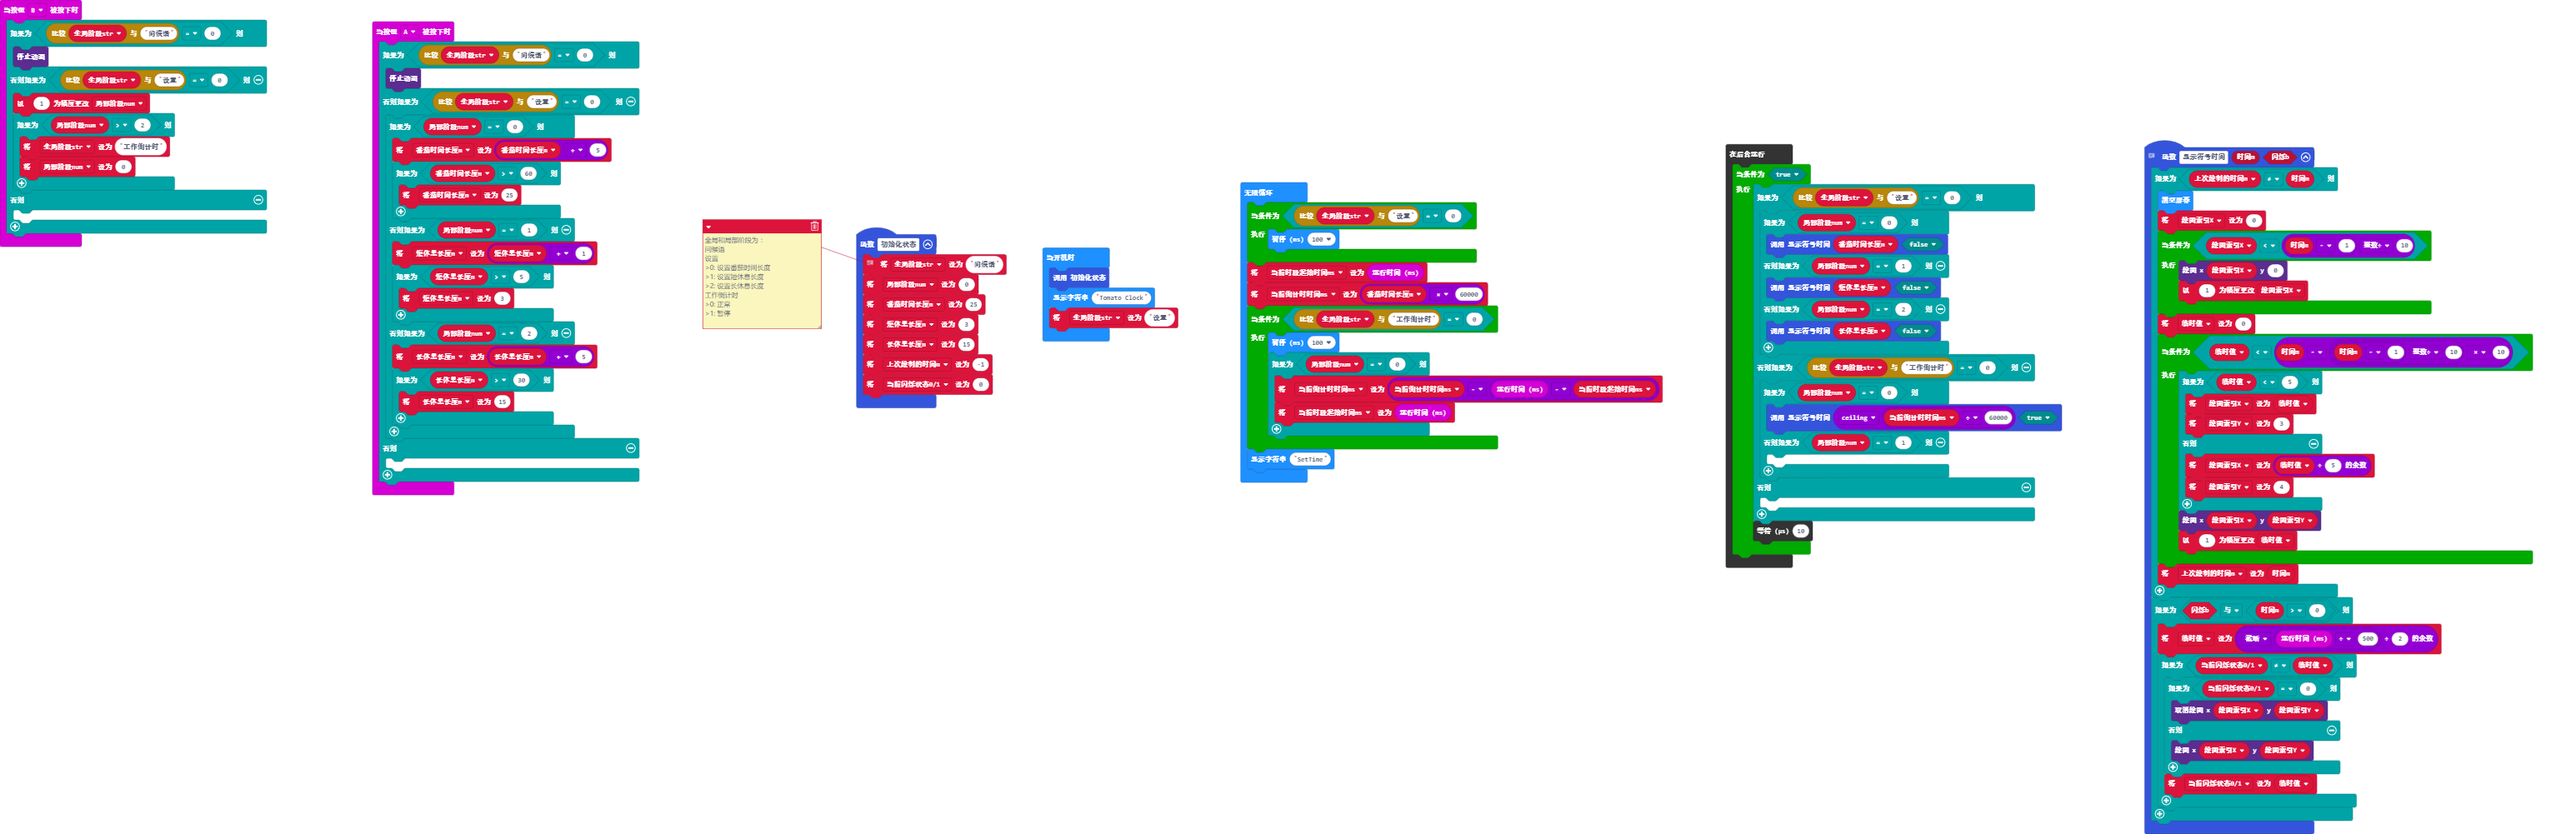
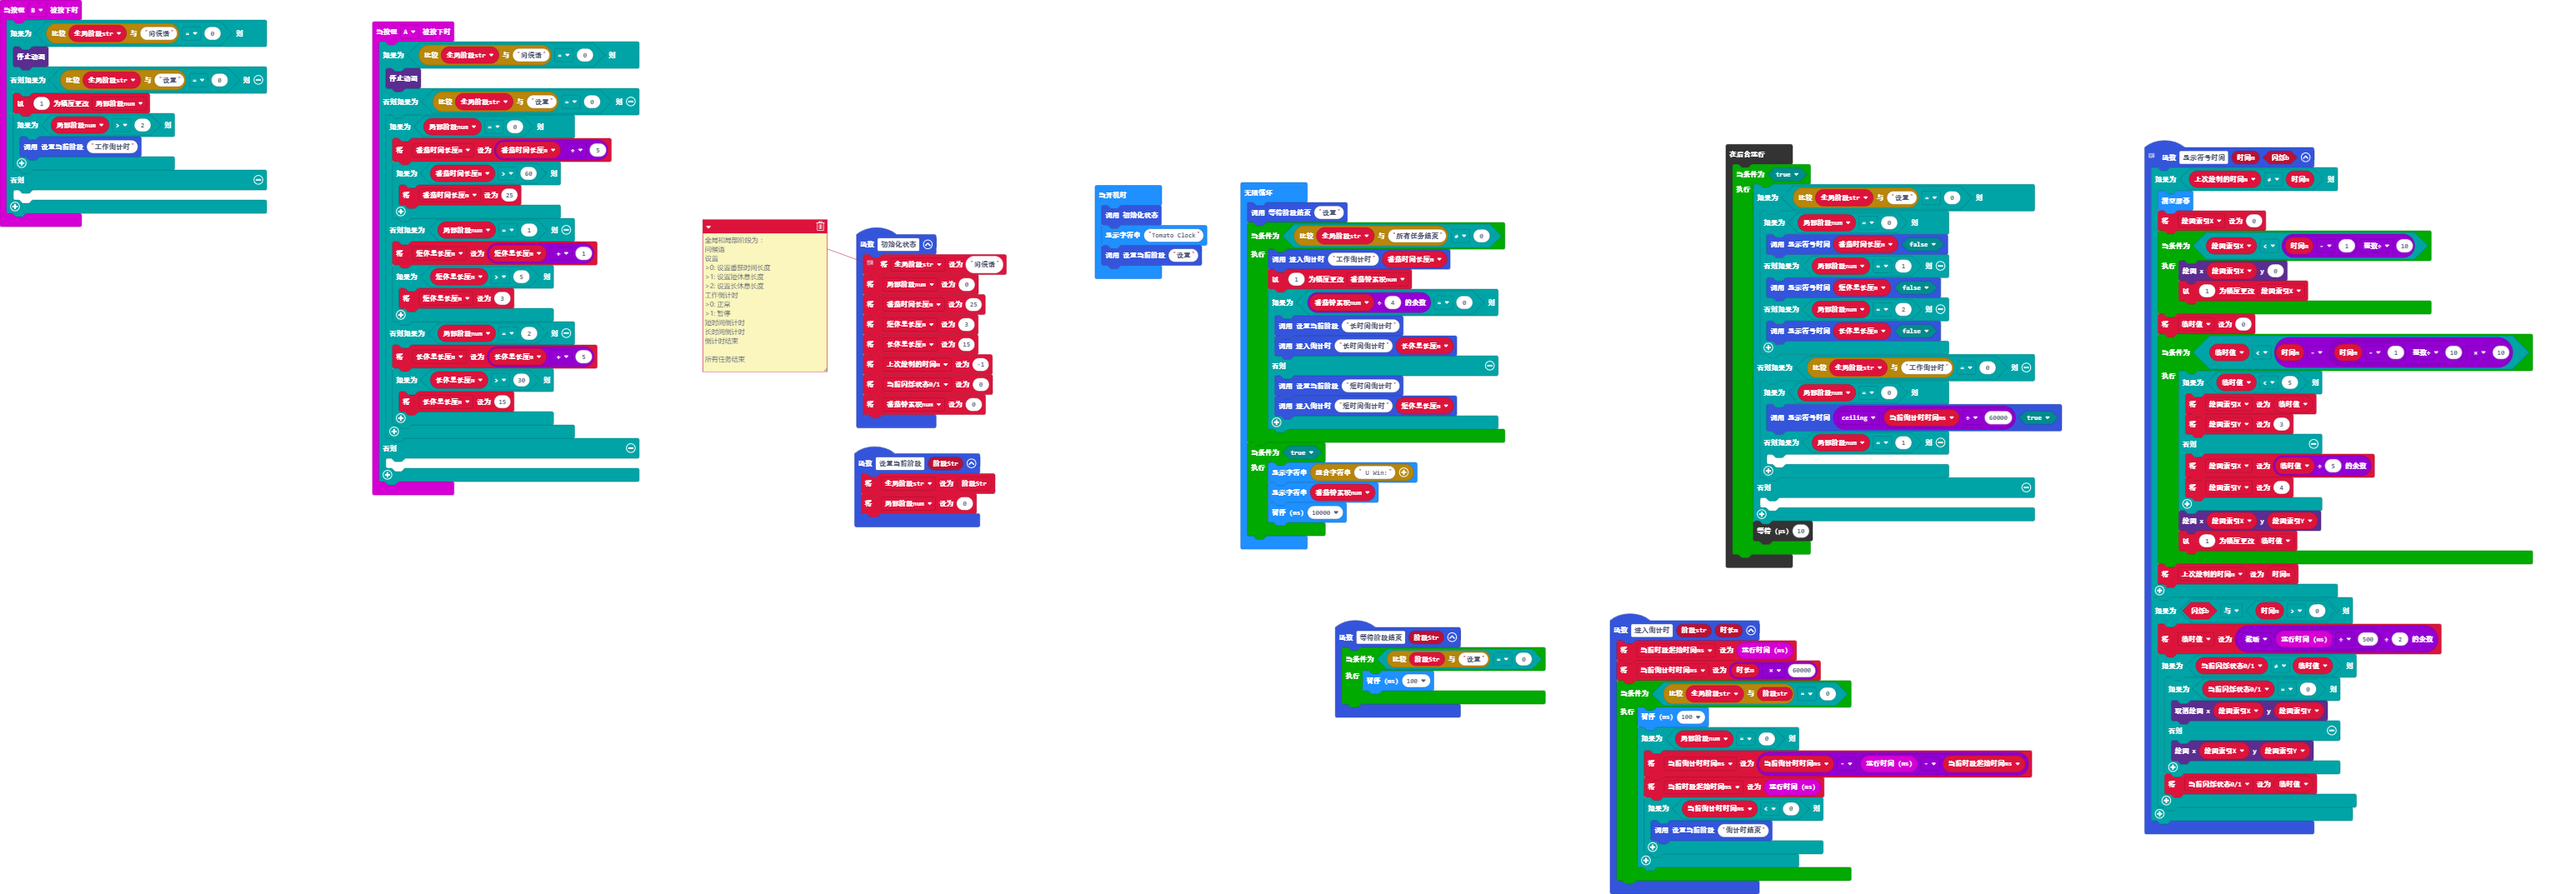
更新 main.blocks, main.ts

Changed region(s): [[0.0, 0.0, 0.6522, 0.6194], [0.4969, 0.1548, 0.8075, 1.0], [0.8075, 0.1548, 0.9939, 1.0]]

diff --git a/main.ts b/main.ts
@@ -1,3 +1,8 @@
+function 等待阶段结束 (阶段Str: string) {
+    while (阶段Str.compare("设置") == 0) {
+        basic.pause(100)
+    }
+}
 // 番茄时长 25 到 60
 // 
 // 短休息 3 到 5
@@ -61,14 +66,31 @@ input.onButtonPressed(Button.A, function () {
     	
     }
 })
+function 进入倒计时 (阶段str: string, 时长m: number) {
+    当前时段起始时间ms = input.runningTime()
+    当前倒计时时间ms = 时长m * 60000
+    while (全局阶段str.compare(阶段str) == 0) {
+        basic.pause(100)
+        if (局部阶段num == 0) {
+            当前倒计时时间ms = 当前倒计时时间ms - (input.runningTime() - 当前时段起始时间ms)
+            当前时段起始时间ms = input.runningTime()
+            if (当前倒计时时间ms < 0) {
+                设置当前阶段("倒计时结束")
+            }
+        }
+    }
+}
+function 设置当前阶段 (阶段Str: string) {
+    全局阶段str = 阶段Str
+    局部阶段num = 0
+}
 input.onButtonPressed(Button.B, function () {
     if (全局阶段str.compare("问候语") == 0) {
         led.stopAnimation()
     } else if (全局阶段str.compare("设置") == 0) {
         局部阶段num += 1
         if (局部阶段num > 2) {
-            全局阶段str = "工作倒计时"
-            局部阶段num = 0
+            设置当前阶段("工作倒计时")
         }
     } else {
     	
@@ -84,6 +106,11 @@ function 初始化状态 () {
     // 工作倒计时
     // >0: 正常
     // >1: 暂停
+    // 短时间倒计时
+    // 长时间倒计时
+    // 倒计时结束
+    // 
+    // 所有任务结束
     全局阶段str = "问候语"
     局部阶段num = 0
     番茄时间长度m = 25
@@ -91,36 +118,42 @@ function 初始化状态 () {
     长休息长度m = 15
     上次绘制的时间m = -1
     当前闪烁状态01 = 0
+    番茄钟累积num = 0
 }
+let 番茄钟累积num = 0
 let 当前倒计时时间ms = 0
 let 当前时段起始时间ms = 0
 let 长休息长度m = 0
 let 短休息长度m = 0
 let 番茄时间长度m = 0
 let 局部阶段num = 0
+let 全局阶段str = ""
 let 当前闪烁状态01 = 0
 let 绘图索引Y = 0
 let 临时值 = 0
 let 绘图索引X = 0
 let 上次绘制的时间m = 0
-let 全局阶段str = ""
 初始化状态()
 basic.showString("Tomato Clock")
-全局阶段str = "设置"
+设置当前阶段("设置")
 basic.forever(function () {
-    while (全局阶段str.compare("设置") == 0) {
-        basic.pause(100)
-    }
-    当前时段起始时间ms = input.runningTime()
-    当前倒计时时间ms = 番茄时间长度m * 60000
-    while (全局阶段str.compare("工作倒计时") == 0) {
-        basic.pause(100)
-        if (局部阶段num == 0) {
-            当前倒计时时间ms = 当前倒计时时间ms - (input.runningTime() - 当前时段起始时间ms)
-            当前时段起始时间ms = input.runningTime()
+    等待阶段结束("设置")
+    while (全局阶段str.compare("所有任务结束") != 0) {
+        进入倒计时("工作倒计时", 番茄时间长度m)
+        番茄钟累积num += 1
+        if (番茄钟累积num % 4 == 0) {
+            设置当前阶段("长时间倒计时")
+            进入倒计时("长时间倒计时", 长休息长度m)
+        } else {
+            设置当前阶段("短时间倒计时")
+            进入倒计时("短时间倒计时", 短休息长度m)
         }
     }
-    basic.showString("SetTime")
+    while (true) {
+        basic.showString(" U Win:")
+        basic.showString("" + (番茄钟累积num))
+        basic.pause(10000)
+    }
 })
 control.inBackground(function () {
     while (true) {
